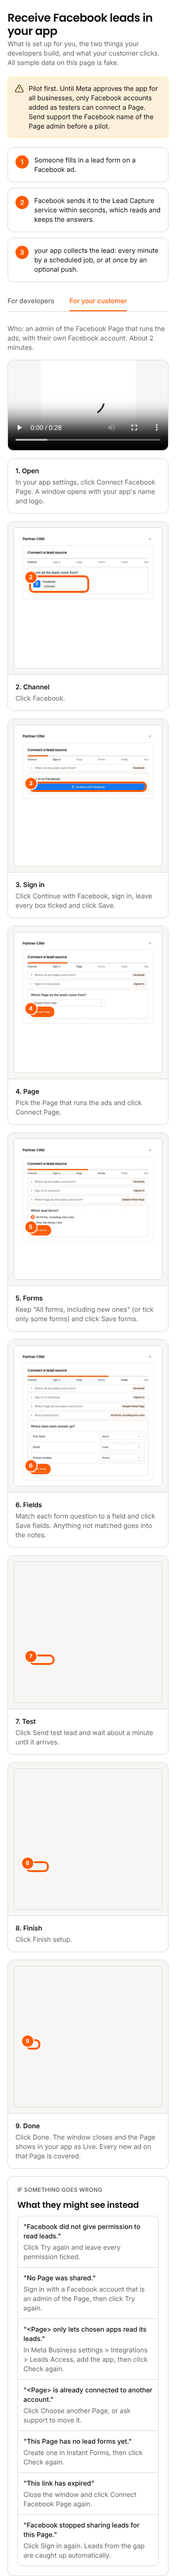
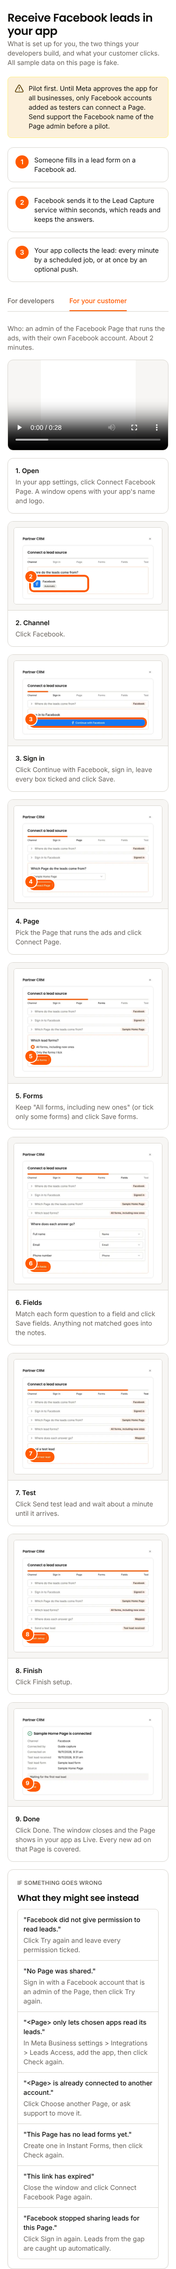
lead-capture guide: video poster, top-aligned step cards, browser-pass evidence
Claude-Session: https://claude.ai/code/session_01EKXEHgfkiBSwSvjCtdA2Eg

diff --git a/service_frontend/app/(public)/public/lead-capture/guide/lead-capture-guide.tsx b/service_frontend/app/(public)/public/lead-capture/guide/lead-capture-guide.tsx
@@ -314,6 +314,7 @@ export function LeadCaptureGuide({ partnerName, apiBase, branding }: LeadCapture
             <video
               controls
               preload="metadata"
+              poster={SHOTS.channel ? `/${SHOTS.channel.file}` : undefined}
               className="aspect-video w-full rounded-xl border border-border bg-muted"
               aria-label="Walkthrough of the Connect window"
             >
@@ -321,7 +322,7 @@ export function LeadCaptureGuide({ partnerName, apiBase, branding }: LeadCapture
               <track kind="captions" src={`/${shots.captions}`} srcLang="en" label="English" default />
             </video>
 
-            <ol className="grid gap-4 sm:grid-cols-2">
+            <ol className="grid items-start gap-4 sm:grid-cols-2">
               {steps.map((step, i) => (
                 <li key={step.key} className="flex flex-col overflow-hidden rounded-xl border border-border bg-card">
                   <StepShot step={step} number={i + 1} />

diff --git a/documentation/plans/meta-leads/guide-page/README.md b/documentation/plans/meta-leads/guide-page/README.md
@@ -42,6 +42,8 @@ Status: **built** after owner OK on mock v2 (18 Nov 17:04). Page: `service_front
 | Error "already connected" -> choose another | Button text **Choose another Page**; leads-access -> **Check again** + "Open Meta Business settings" | `connect/components/wizard-problem.tsx:22-41` |
 | (missing) | "This Page has no lead forms yet" + **Check again**; "This link has expired" | `wizard-steps.tsx:128-149`, `connect/page.tsx:68-75` |
 | connect-sessions body | also optional `sourceId` (reopen for Reconnect / new fields) | `schemas.py:221-223`, `gateway.py:275-293` |
+| Push: "same lead shape, same id" | The push body is an event envelope `{id: <event id>, type, occurredAt, data: <Lead>}`: dedupe on `data.id`; `POST /webhooks` returns `secret` once | `consumer-integration-guide.md:395-397,444`, `schemas.py:147-148` |
+| Channel button "Facebook Page" | The channel card reads **Facebook** | `connect_session_service.py:350` |
 | `/be/api/v1/...` | gateway mounts at `/api/v1/lead-capture`; `/be` is the production proxy prefix | `manifest.json` routers, `DEPLOY.md:78` |
 
 ## Screenshots + video (re-generate when the wizard changes)
@@ -63,3 +65,9 @@ partner backend does, then drives the real wizard with real mouse clicks. It wri
 `walkthrough.vtt` (captions), plus `lib/lead-capture-guide-shots.json` (each step's button box, drawn as the
 numbered ring). At the end it disconnects the capture tenant's source, so the simulated Page is free for the next
 run. Local stack only: it never needs or touches a real key. Playwright is not used (retired, `AGENTS.md:37`).
+
+## Evidence
+
+`evidence/guide-{developers,customer}-{1280,375}.png`: agent-browser full-page captures of the rebuilt frontend.
+At both widths: no horizontal scroll, no "Foundryx" text, 8 code blocks, 9 step cards, 8/8 screenshots loaded,
+Copy shows "Copied". The video plays with its captions track showing. No `fxl_live_<secret>` pattern in `.next`.
